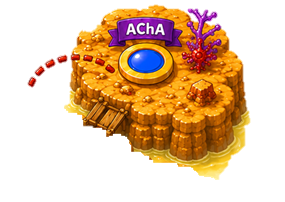
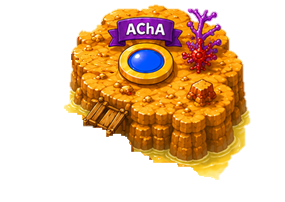
acha island and quiz questions updated, and hotspot areas adjusted for vessel valley quiz

Changed region(s): [[0.0842, 0.2673, 0.4211, 0.4455]]

diff --git a/vessel_valley.html b/vessel_valley.html
@@ -21,10 +21,13 @@
 
     .map-wrap {
         position: relative;
-        width: min(95vw, 650px);
-        margin: 0 auto;
+  width: min(95vw, 650px);
+  margin: 70px auto 0;
     }
-
+.map-inner {
+  position: relative;
+  transform: translateY(70px);
+}
     .base-map {
 width: 100%;
 height: auto;
@@ -33,15 +36,15 @@ display: block;
 
     .hotspot {
 position:absolute;
-border-radius:50%;
-border:none;
-background:transparent;
-padding:0;
-margin:0;
-appearance:none;
--webkit-appearance:none;
-cursor:pointer;
-z-index:3;
+  border-radius:50%;
+  border: 3px solid lime;
+  background: rgba(0,255,0,0.2);
+  padding:0;
+  margin:0;
+  appearance:none;
+  -webkit-appearance:none;
+  cursor:pointer;
+  z-index:10;
 }
 
     /* testing target areas - adjust these if needed */
@@ -49,7 +52,12 @@ z-index:3;
     .aca  { top: 42%; left: 17%; width: 12%; height: 8%; }
     .mca  { top: 40%; left: 60%; width: 12%; height: 8%; }
     .acom { top: 71%; left: 38%; width: 12%; height: 8%; }
-
+.acha { 
+   top: -1.8%;
+  left: 57%;
+  width: 11%;
+  height: 7%; 
+}
     .hotspot-label {
         position: absolute;
         background:transparent;
@@ -189,7 +197,7 @@ z-index:2;
 .acom-star-overlay{
 
 top:72.5%;
-left:38.5%;
+left:39.7%;
 
 width:9%;
 height:4.5%;
@@ -197,7 +205,21 @@ height:4.5%;
 z-index:2;
 
 }
-
+.acha-overlay {
+  top: -8%;
+  left: 32%;
+  width: 60%;
+  height: auto;
+  z-index: 2;
+}
+.acha-red-overlay,
+.acha-star-overlay {
+  top: -1.7%;
+  left: 57%;
+  width: 11.5%;
+  height: auto;
+  z-index: 3;
+}
 
 #loginBox {
 text-align:center;
@@ -225,6 +247,8 @@ margin:15px;
 <h1>Vessel Valley</h1>
 
 <div class="map-wrap">
+    <div class="map-inner">
+    
     <img src="vessel_valley.png"  class="base-map" alt="Vessel Valley map">
 <img
 src="red_overlay_ica.png"
@@ -252,17 +276,31 @@ class="course-overlay acom-overlay">
 src="blue_star_overlay_acom.png"
 class="course-overlay acom-star-overlay hidden">
 
+<img
+src="acha_island.png"
+class="course-overlay acha-overlay hidden">
+
+<img
+src="red_overlay_acha.png"
+class="course-overlay acha-red-overlay hidden">
+
+<img
+src="blue_star_overlay_acha.png"
+class="course-overlay acha-star-overlay hidden">
+
 
     <button class="hotspot ica" onclick="handleLevelClick('ICA')"></button>
 <button class="hotspot aca" onclick="handleLevelClick('ACA')"></button>
 <button class="hotspot mca" onclick="handleLevelClick('MCA')"></button>
 <button class="hotspot acom" onclick="handleLevelClick('ACom')"></button>
+<button class="hotspot acha hidden" onclick="handleLevelClick('AChA')"></button>
 
     <div class="hotspot-label ica-label">ICA</div>
     <div class="hotspot-label aca-label">ACA</div>
     <div class="hotspot-label mca-label">MCA</div>
     <div class="hotspot-label acom-label">ACom</div>
     
+</div>
 </div>
 </div>
     
@@ -420,6 +458,35 @@ document.querySelector(
 );
 
 }
+if(
+playerProgress["ACom"] &&
+playerProgress["ACom"].completed === true
+){
+  document.querySelector(".acha-overlay").classList.remove("hidden");
+  document.querySelector(".acha").classList.remove("hidden");
+}
+if(
+playerProgress["ACom"] &&
+playerProgress["ACom"].completed === true
+){
+  document.querySelector(".acha-overlay").classList.remove("hidden");
+  document.querySelector(".acha-red-overlay").classList.remove("hidden");
+  document.querySelector(".acha").classList.remove("hidden");
+}
+
+if(
+playerProgress["AChA"] &&
+playerProgress["AChA"].completed === true
+){
+  document.querySelector(".acha-red-overlay").style.display = "none";
+}
+
+if(
+playerProgress["AChA"] &&
+playerProgress["AChA"].brains === 3
+){
+  document.querySelector(".acha-star-overlay").classList.remove("hidden");
+}
 }
 function openLevel(category){
 
@@ -461,8 +528,11 @@ p["ACA"] && p["ACA"].completed === true &&
 p["MCA"] && p["MCA"].completed === true
 );
 }
-
+if(level === "AChA"){
+  return p["ACom"] && p["ACom"].completed === true;
+}
 return false;
+
 
 }
 
